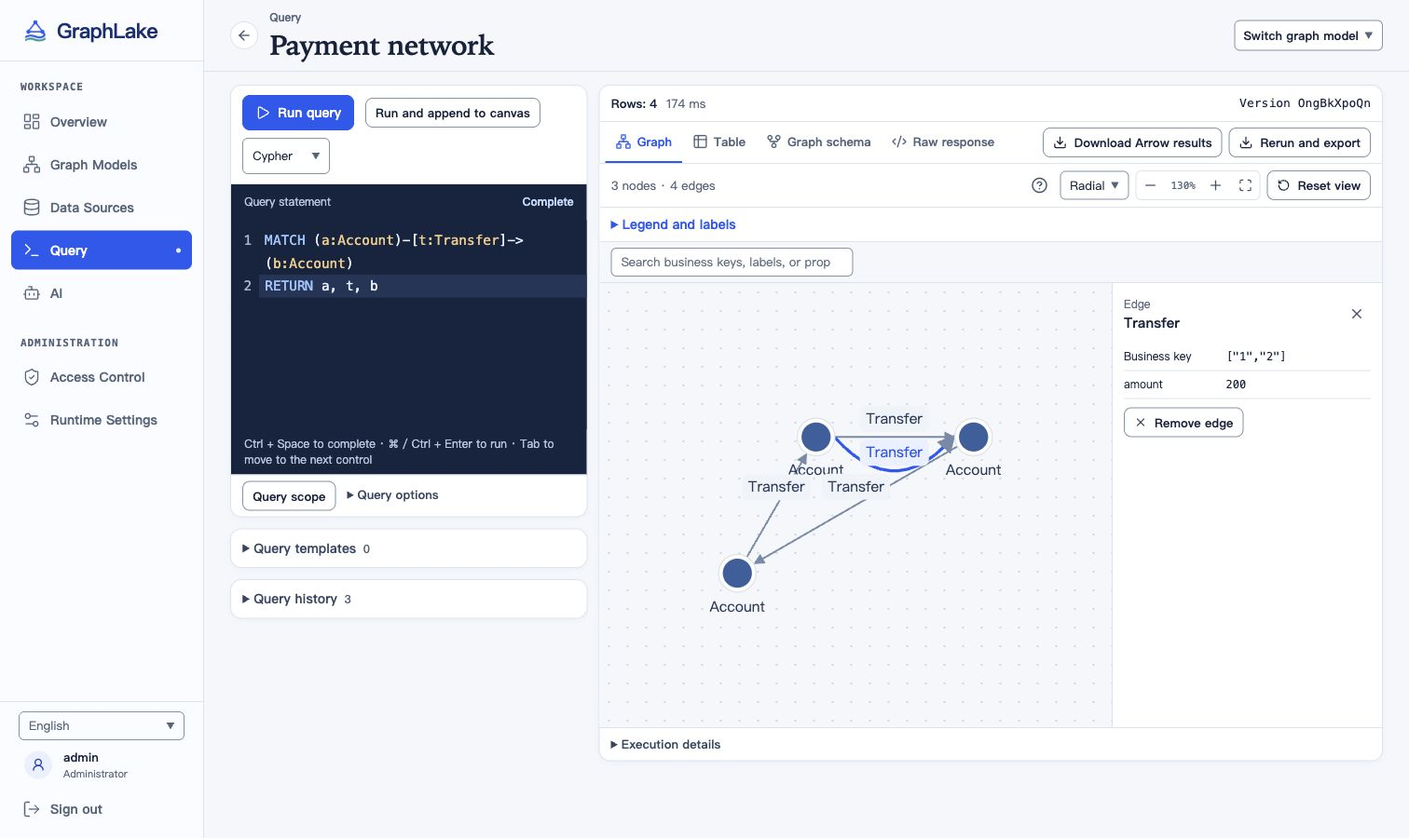
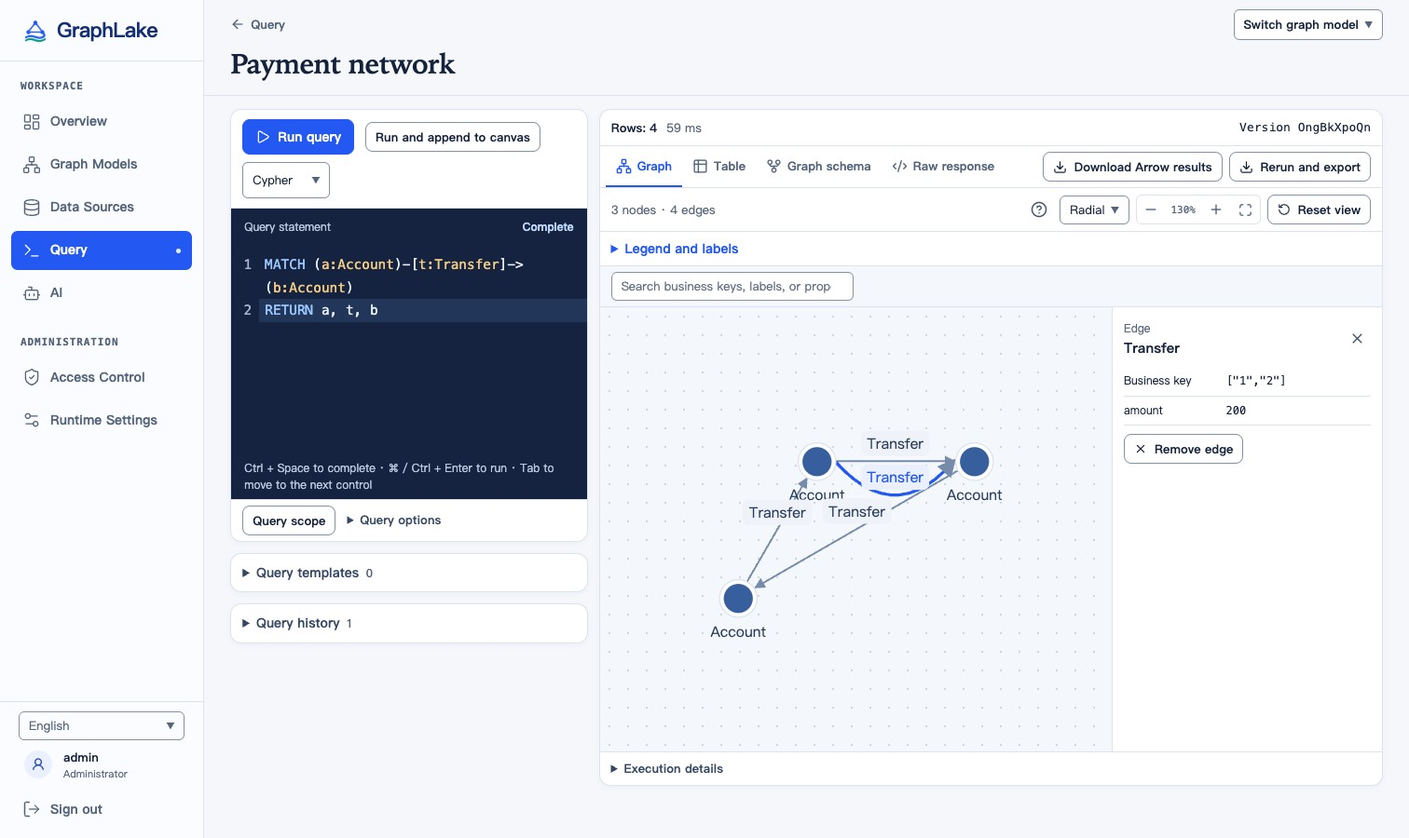
Align workspace headers, settings tabs, and narrow-screen actions

diff --git a/web/src/styles.css b/web/src/styles.css
@@ -321,6 +321,10 @@ thead th { font-weight: 700; white-space: nowrap; }
 .source-browser form.mapping-source .button { margin: 0; }
 
 .workbench { min-width: 0; min-height: 100dvh; }
+.framed-workspace { margin-inline: auto; }
+.access-workspace { max-inline-size: 82rem; }
+.ai-workspace { max-inline-size: 68rem; }
+.runtime-workspace { max-inline-size: 76rem; }
 .model-workspace { min-width: 0; }
 .model-workspace[data-inactive] { display: none; }
 @supports (content-visibility: hidden) {
@@ -334,14 +338,8 @@ thead th { font-weight: 700; white-space: nowrap; }
 .workspace-header h1 { font: 550 clamp(1.4rem, 1.1rem + .8vw, 1.88rem)/1.2 var(--display); overflow-wrap: anywhere; letter-spacing: -.02em; }
 .workspace-title, .workspace-context { display: flex; flex-wrap: wrap; align-items: center; min-width: 0; gap: 8px 12px; }
 .workspace-context { justify-content: flex-end; }
-.model-workspace-header .workspace-context { gap: 8px; }
-.workspace-title > .icon-button { border: 1px solid var(--line); }
 .model-switch { min-width: 0; max-width: 100%; }
 .model-switch select { min-width: 6rem; max-width: min(18rem, 58vw); padding-block: 6px; padding-inline-start: 9px; font-size: 13px; font-weight: 600; text-overflow: ellipsis; }
-.model-heading { min-inline-size: 0; }
-.model-heading > span { display: block; margin-block-end: 3px; color: var(--muted); font-size: .75rem; font-weight: 600; }
-.model-workspace-header .workspace-title { flex: 1 1 22rem; flex-wrap: nowrap; }
-.model-workspace-header .workspace-title > .icon-button { background: var(--surface); border-radius: 50%; }
 .version-chip { color: var(--muted); font-size: 12px; white-space: nowrap; padding: 4px 7px; background: var(--panel); border: 1px solid var(--line); border-radius: 5px; }
 .button.compact { min-height: 32px; padding: 4px 10px; font-size: 13px; }
 .listing { min-width: 0; padding: 0 var(--gutter) 26px; }
@@ -369,25 +367,26 @@ thead th { font-weight: 700; white-space: nowrap; }
 .catalog-workspace { min-width: 0; }
 .catalog-controls { display: flex; flex-wrap: wrap; align-items: center; gap: 8px; padding: 14px var(--gutter) 0; }
 .catalog-controls .workspace-tools { margin-inline-start: auto; }
-.catalog-header {
+.model-workspace-header {
   display: grid; grid-template-columns: minmax(0, 1fr); gap: 8px;
-  padding-block: 10px 16px; container: catalog-header / inline-size;
+  padding-block: 10px 16px; container: model-header / inline-size;
 }
-.catalog-header-nav, .catalog-heading-row {
+.model-header-nav, .model-heading-row {
   display: flex; align-items: center; justify-content: space-between; gap: 8px 16px;
 }
-.catalog-back {
+.model-back {
   display: inline-flex; align-items: center; gap: 6px; min-block-size: 32px; padding: 0;
   border: 0; background: transparent; color: var(--muted); font-size: .8125rem; font-weight: 600;
 }
-.catalog-back:hover { color: var(--accent); }
-.catalog-heading-info, .catalog-model-status { display: flex; flex-wrap: wrap; align-items: center; gap: 6px 12px; min-inline-size: 0; }
-.catalog-add { flex: none; }
-@container catalog-header (max-width: 32rem) {
-  .catalog-heading-row { display: grid; grid-template-columns: minmax(0, 1fr) auto; column-gap: 8px; }
-  .catalog-heading-info { display: contents; }
-  .catalog-heading-row h1 { grid-column: 1 / -1; }
-  .catalog-model-status .version-chip { max-inline-size: 100%; white-space: normal; overflow-wrap: anywhere; }
+.model-back:hover { color: var(--accent); }
+.model-heading-info, .model-heading-status { display: flex; flex-wrap: wrap; align-items: center; gap: 6px 12px; min-inline-size: 0; }
+.model-heading-name { display: flex; align-items: center; gap: 8px; min-inline-size: 0; max-inline-size: 100%; }
+.model-heading-name .icon-button, .catalog-add { flex: none; }
+@container model-header (max-width: 32rem) {
+  .model-heading-row { display: grid; grid-template-columns: minmax(0, 1fr) auto; column-gap: 8px; }
+  .model-heading-info { display: contents; }
+  .model-heading-name { grid-column: 1 / -1; }
+  .model-heading-status .version-chip { max-inline-size: 100%; white-space: normal; overflow-wrap: anywhere; }
   .catalog-add { grid-column: 2; padding-inline: 10px; }
 }
 .catalog-list { container: catalogs / inline-size; padding-block-start: 18px; }
@@ -757,7 +756,7 @@ button.graph-edge:hover, .graph-edge[aria-pressed="true"] { color: var(--accent)
   .explorer-toolbar { justify-content: flex-start; }
 }
 
-.access-page { inline-size: 100%; max-inline-size: 82rem; margin-inline: auto; display: grid; grid-template-columns: minmax(0, 1fr); gap: 12px; padding-block-start: 16px; }
+.access-page { display: grid; grid-template-columns: minmax(0, 1fr); gap: 12px; padding-block-start: 16px; }
 .access-table table { table-layout: fixed; }
 .access-table th, .access-table td { text-align: start; overflow-wrap: anywhere; }
 .access-table thead th { color: var(--muted); font-size: .8125rem; font-weight: 650; }
@@ -919,7 +918,7 @@ button.graph-edge:hover, .graph-edge[aria-pressed="true"] { color: var(--accent)
   .settings-tabs .label-full { display: none; }
   .settings-tabs .label-compact { display: inline; }
 }
-.settings-workspace { max-width: 76rem; margin-inline: auto; padding: 18px var(--gutter) 32px; }
+.settings-workspace { padding: 18px var(--gutter) 32px; }
 .backup-workspace { display: grid; grid-template-columns: repeat(auto-fit, minmax(min(100%, 25rem), 1fr)); gap: 16px; }
 .backup-workspace > :is(.settings-section-title, [role="status"], [role="alert"]) { grid-column: 1 / -1; }
 .backup-workspace .settings-card { align-content: start; }
@@ -927,11 +926,12 @@ button.graph-edge:hover, .graph-edge[aria-pressed="true"] { color: var(--accent)
 @media (min-width: 1150px) {
   .telemetry-workspace { grid-template-columns: minmax(19rem, .75fr) minmax(0, 1.25fr); }
 }
+.telemetry-actions { grid-column: 1 / -1; display: flex; flex-wrap: wrap; justify-content: flex-end; gap: 8px; }
 .telemetry-summary .settings-fields, .telemetry-export > .settings-fields { border: 0; padding: 0; }
 .telemetry-summary legend, .telemetry-export > .settings-fields > legend { padding: 0 0 10px; }
 .telemetry-export > .settings-fields > legend { font-size: 1rem; }
-.settings-feedback { max-width: 72rem; width: calc(100% - 2 * var(--gutter)); margin: 16px auto 0; }
-.settings-health { max-width: 90rem; display: grid; grid-template-columns: minmax(0, 2fr) minmax(17rem, 1fr); align-items: start; gap: 20px; }
+.settings-feedback { margin: 16px var(--gutter) 0; }
+.settings-health { display: grid; grid-template-columns: minmax(0, 2fr) minmax(17rem, 1fr); align-items: start; gap: 20px; }
 .recovery-console { display: grid; gap: 14px; max-width: 55rem; padding: 24px var(--gutter); margin-inline: auto; }
 .recovery-heading, .recovery-token-form, .recovery-verdict { display: flex; flex-wrap: wrap; align-items: center; gap: 8px 14px; }
 .recovery-heading .language-picker { margin-inline-start: auto; }
@@ -992,7 +992,7 @@ button.graph-edge:hover, .graph-edge[aria-pressed="true"] { color: var(--accent)
 .mcp-model-access .tag { white-space: normal; }
 .mcp-tool-list { margin-block-start: 8px; }
 
-.mcp-guide { inline-size: 100%; max-inline-size: 68rem; margin-inline: auto; padding: 18px var(--gutter) 32px; display: grid; gap: 16px; }
+.mcp-guide { padding: 18px var(--gutter) 32px; display: grid; gap: 16px; }
 .mcp-intro { display: grid; gap: 6px; padding: clamp(16px, 1.8vw, 26px); color: white; border-radius: var(--radius); background: var(--brand-cover); }
 .mcp-intro h2 { font: 500 clamp(1.55rem, 1.25rem + 1vw, 2.2rem)/1.2 var(--display); letter-spacing: -.02em; }
 .mcp-intro p { max-width: 36rem; color: #e4efff; line-height: 1.7; }

diff --git a/web/src/Editor.tsx b/web/src/Editor.tsx
@@ -1,7 +1,7 @@
 import { diagnosticText, t } from './locale.ts';
 import type { useMutations } from './Mutations';
 import { lazy, Suspense, useCallback, useEffect, useMemo, useRef, useState } from 'react';
-import { ArrowLeft, Braces, Box, Database, GitCommitHorizontal, History, List, Pencil, Plus, RefreshCw, Save, ShieldCheck, Upload, Waypoints, X } from 'lucide-react';
+import { Braces, Box, Database, GitCommitHorizontal, History, List, Pencil, Plus, RefreshCw, Save, ShieldCheck, Upload, Waypoints, X } from 'lucide-react';
 import { api, ApiError, errorText, type BusinessStatus, type Column, type ImpactReport, type ModelSummary, type SavedModel, type Validation, type ValidationSite } from './api';
 import { BusinessImpact, impactLabels, type ImpactTarget } from './BusinessImpact';
 import { BusinessTasks } from './BusinessTasks';
@@ -22,6 +22,7 @@ import { ModelYamlEditor } from './ModelYamlEditor';
 import { useModelDraft } from './useModelDraft';
 import { setupIssue } from './modelWorkflow';
 import { Modal, NameDialog, StatusLabel } from './ui';
+import { ModelWorkspaceHeader } from './ModelWorkspaceHeader';
 import { WorkspaceTools } from './WorkspaceTools';
 
 export type Workspace = 'graph' | 'catalogs' | 'query';
@@ -488,34 +489,13 @@ export default function Editor({ id, initial, active, onDirty, close, created, c
   const dirtyLabel = workspace !== 'query' && dirty && <span className="dirty"><i />{t('未保存')}</span>;
 
   return <main className={'workbench editor workspace-' + workspace}>
-    {workspace === 'catalogs' ? <header className="workspace-header catalog-header">
-      <div className="catalog-header-nav">
-        <button className="catalog-back" type="button" aria-label={title + ' · ' + t('返回模型列表')} title={t('返回模型列表')} onClick={close}>
-          <ArrowLeft size={16} aria-hidden="true" />{title}
-        </button>
-        {modelSwitcher}
-      </div>
-      <div className="catalog-heading-row">
-        <div className="catalog-heading-info">
-          <h1>{modelName}</h1>
-          {(version || dirtyLabel) && <div className="catalog-model-status">{version}{dirtyLabel}</div>}
-        </div>
-        {model && allow.configure && allow.edit && <button className="button primary catalog-add" type="button"
-          disabled={!!busy} aria-haspopup="dialog" onClick={openSource}><Plus size={16} aria-hidden="true" />{t('添加数据源')}</button>}
-      </div>
-    </header> : <header className="workspace-header model-workspace-header">
-      <div className="workspace-title">
-        <button className="icon-button" aria-label={t('返回模型列表')} title={t('返回模型列表')} onClick={close}><ArrowLeft size={17} aria-hidden="true" /></button>
-        <div className="model-heading"><span>{title}</span><h1>{modelName}</h1></div>
-      </div>
-      <div className="workspace-context">
-        {dirtyLabel}
-        {modelSwitcher}
-        {workspace === 'graph' && preview.model && allow.edit && <button className="icon-button" aria-label={t('编辑模型名称')}
-          disabled={busy || !!yamlError} onClick={() => { if (inspectCurrent().model) setModal('title'); }}><Pencil size={15} /></button>}
-        {version}
-      </div>
-    </header>}
+    <ModelWorkspaceHeader workspace={title} name={modelName} back={close} switcher={modelSwitcher}
+      rename={workspace === 'graph' && preview.model && allow.edit && <button className="icon-button" type="button"
+        aria-label={t('编辑模型名称')} title={t('编辑模型名称')} disabled={busy || !!yamlError}
+        onClick={() => { if (inspectCurrent().model) setModal('title'); }}><Pencil size={15} aria-hidden="true" /></button>}
+      status={(version || dirtyLabel) && <>{version}{dirtyLabel}</>}
+      action={workspace === 'catalogs' && model && allow.configure && allow.edit && <button className="button primary catalog-add" type="button"
+        disabled={!!busy} aria-haspopup="dialog" onClick={openSource}><Plus size={16} aria-hidden="true" />{t('添加数据源')}</button>} />
     {saved?.archive_error && <p className="notice error" role="alert">{diagnosticText(saved.archive_error)}{' '}
       <button className="button compact" onClick={() => setModal('versions')}>{t('查看版本历史')}</button>
     </p>}

diff --git a/web/src/Settings.tsx b/web/src/Settings.tsx
@@ -130,16 +130,10 @@ export default function Settings({ models, locked, onDirty, openModel, initialTa
 
   const readOnly = !snapshot?.file || locked || busy;
   const editableTab = tab === 'telemetry';
-  return <main className="workbench">
+  return <main className="workbench framed-workspace runtime-workspace">
     <header className="workspace-header">
       <div className="workspace-title"><h1>{t('运行配置')}</h1></div>
-      <div className="workspace-context">
-        {(dirty.current || mcpDirty) && <span className="dirty"><i />{t('未保存')}</span>}
-        {editableTab && snapshot && <>
-        <button className="button compact" type="button" disabled={busy} onClick={reloadConfig}>{t('重新加载配置')}</button>
-        <button className="button primary compact" type="submit" form="runtime-settings" disabled={readOnly || !dirty.current}>{busy ? t('正在保存…') : t('保存配置')}</button>
-        </>}
-      </div>
+      {(dirty.current || mcpDirty) && <span className="dirty"><i />{t('未保存')}</span>}
     </header>
     <div className="workspace-tabs settings-tabs" role="tablist" aria-label={t('运行配置分类')}>
       {tabs.map(([key, label, compactLabel], index) => <button key={key} id={tabButton(key)} type="button" role="tab"
@@ -231,6 +225,10 @@ export default function Settings({ models, locked, onDirty, openModel, initialTa
             </button>
           </fieldset>
           </details>
+        </div>
+        <div className="telemetry-actions">
+          <button className="button" type="button" disabled={busy} onClick={reloadConfig}>{t('重新加载配置')}</button>
+          <button className="button primary" type="submit" disabled={readOnly || !dirty.current}>{busy ? t('正在保存…') : t('保存配置')}</button>
         </div>
       </div></section>
     </form>}

diff --git a/web/src/App.tsx b/web/src/App.tsx
@@ -13,6 +13,7 @@ import type { Point } from './modelCanvasGeometry';
 import { documentOf, emptyModel, modelOf } from './model';
 import { Modal, NameDialog } from './ui';
 import { ConsoleNavigation } from './ConsoleNavigation';
+import { ModelWorkspaceHeader } from './ModelWorkspaceHeader';
 import { Models, type DirectoryState } from './Models';
 import type { SettingsTab } from './Settings';
 import './styles.css';
@@ -279,8 +280,7 @@ function App({ logout, locked, identity }: { logout?: () => Promise<void>; locke
               changed={reloadModels} created={key => navigate(modelPath(key), true)} />
             </Suspense>
           : <main className="workbench workspace-query">
-              <header className="workspace-header"><div className="workspace-title"><h1>{summary!.name}</h1></div>
-                <button className="button compact" onClick={() => navigate('/query')}>{t('查询模型列表')}</button></header>
+              <ModelWorkspaceHeader workspace={t('查询')} name={summary!.name} back={() => navigate('/query')} />
               <Query id={model} actor={actor} revision={summary!.active_revision!} draftPending={false}
                 refresh={reloadModels} visible={show} canExport={canExport(model)} />
             </main>}

diff --git a/web/src/ModelWorkspaceHeader.tsx b/web/src/ModelWorkspaceHeader.tsx
@@ -1,0 +1,29 @@
+import type { ReactNode } from 'react';
+import { ArrowLeft } from 'lucide-react';
+import { t } from './locale.ts';
+
+export function ModelWorkspaceHeader({ workspace, name, back, switcher, rename, status, action }: {
+  workspace: string;
+  name: string;
+  back: () => void;
+  switcher?: ReactNode;
+  rename?: ReactNode;
+  status?: ReactNode;
+  action?: ReactNode;
+}) {
+  return <header className="workspace-header model-workspace-header">
+    <div className="model-header-nav">
+      <button className="model-back" type="button" aria-label={workspace + ' · ' + t('返回模型列表')} title={t('返回模型列表')} onClick={back}>
+        <ArrowLeft size={16} aria-hidden="true" />{workspace}
+      </button>
+      {switcher}
+    </div>
+    <div className="model-heading-row">
+      <div className="model-heading-info">
+        <div className="model-heading-name"><h1>{name}</h1>{rename}</div>
+        {status && <div className="model-heading-status">{status}</div>}
+      </div>
+      {action}
+    </div>
+  </header>;
+}

diff --git a/web/src/localTables.css b/web/src/localTables.css
@@ -161,11 +161,9 @@
   .sync-source-line > span:first-child { inline-size: 100%; }
   .sync-source-line code { flex: 1; }
   .local-table-facts { margin-inline: 14px; }
-  .local-table-actions { padding: 10px 14px; flex-wrap: wrap; gap: 0; }
-  .local-table-actions > div { inline-size: 100%; display: grid; grid-template-columns: repeat(3, 1fr); gap: 0; }
-  .local-table-actions .button { min-block-size: 42px; padding-inline: 6px; justify-content: center; }
-  .sync-more { margin-inline-start: auto; }
-  .sync-more summary { min-block-size: 40px; }
+  .local-table-actions { display: grid; grid-template-columns: repeat(2, minmax(0, 1fr)); align-items: stretch; padding: 10px 14px; gap: 4px 8px; }
+  .local-table-actions > div { display: contents; }
+  .local-table-actions .button, .sync-more summary { min-block-size: 44px; padding-inline: 6px; justify-content: center; white-space: normal; }
   .sync-run-error { margin-inline: 14px; }
   .sync-retained { padding-inline: 14px; }
 }

diff --git a/web/src/navigation.css b/web/src/navigation.css
@@ -82,8 +82,11 @@
     width: 18px; height: 2px; inset: auto auto 1px calc(50% - 9px); border-radius: 2px;
   }
 
-  .app-rail[data-collapsed] .rail-nav { grid-row: 1; grid-column: 2; padding-inline-end: var(--gutter); }
-  .rail-nav > .rail-menu-trigger { gap: 7px; max-inline-size: min(54vw, 14rem); min-block-size: 44px; }
+  .app-rail[data-collapsed] { grid-template-columns: auto minmax(0, 1fr); column-gap: 8px; padding-inline: var(--gutter); }
+  .app-rail[data-collapsed] .rail-brand { padding-inline: 0; }
+  .app-rail[data-collapsed] .rail-brand span { font-size: clamp(1.1rem, 5.5vw, 1.38rem); }
+  .app-rail[data-collapsed] .rail-nav { grid-row: 1; grid-column: 2; justify-self: end; max-inline-size: 100%; }
+  .rail-nav > .rail-menu-trigger { gap: 7px; max-inline-size: 100%; min-block-size: 44px; }
   .rail-menu-trigger > svg { flex: none; }
   .rail-menu-trigger > span { min-inline-size: 0; overflow: hidden; text-overflow: ellipsis; }
   .rail-menu[popover]:popover-open {

diff --git a/web/src/AI.tsx b/web/src/AI.tsx
@@ -41,7 +41,7 @@ export default function AI({ locked, authEnabled, openServiceSettings }: {
     catch { setCopyError(t('无法访问剪贴板，请选中示例文字手动复制。')); }
   }
 
-  return <main className="workbench">
+  return <main className="workbench framed-workspace ai-workspace">
     <header className="workspace-header"><div className="workspace-title"><h1>AI</h1><span className="settings-hint">{t('Agent 接入指南')}</span></div>
       {access && <div className="workspace-context"><span>{t('当前用户 · {0}', access.owner)}</span></div>}
     </header>

diff --git a/web/src/Overview.tsx b/web/src/Overview.tsx
@@ -162,7 +162,7 @@ export default function Overview({ active, openModel, openSettings }: Props) {
     if (job?.state === 'unavailable') issues.push(['backups', t('{0}状态不可读', name)]);
     else if (job?.state === 'recorded' && !job.result.ok) issues.push(['backups', t('{0}失败', name)]);
   }
-  return <main className="workbench overview">
+  return <main className="workbench framed-workspace overview">
     <header className="workspace-header">
       <div className="workspace-title"><h1>{t('平台概览')}</h1></div>
       <div className="workspace-context">

diff --git a/web/src/Access.tsx b/web/src/Access.tsx
@@ -51,7 +51,7 @@ export function Access({ models, locked }: { models: ModelSummary[]; locked: boo
     setGroupEdit(undefined);
     setAttempt(value => value + 1);
   }
-  return <main className="workbench">
+  return <main className="workbench framed-workspace access-workspace">
     <header className="workspace-header">
       <div className="workspace-title"><h1>{t('权限管理')}</h1></div>
       <div className="workspace-context">

diff --git a/web/src/overview.css b/web/src/overview.css
@@ -1,9 +1,8 @@
+.overview { max-inline-size: 92rem; }
 .overview-body {
   display: grid;
   gap: 16px;
-  max-inline-size: 92rem;
   padding: 16px var(--gutter) 32px;
-  margin-inline: auto;
 }
 .overview-updated, .overview-service-details, .overview-service-title, .overview-section-heading h2, .overview-panel > h2 {
   display: flex;

diff --git a/docs/reference.zh-CN.md b/docs/reference.zh-CN.md
@@ -61,7 +61,7 @@ cargo run --locked --features admin --bin graphlake-admin -- \
 
 侧边栏独立的「AI」页面默认展示 Agent 接入指南，用户可生成、轮换或撤销个人 AI 令牌，查看自身可用模型并测试连接。AI 继承令牌所属用户当前的查询、建模、发布权限及租户范围，审计记录归属实际用户。查询与建模各有一个 MCP 地址（`/mcp/query` 和 `/mcp/modeling`），管理员在「运行配置 → MCP 服务」中独立启停。详见 [MCP 接入与能力边界](mcp.md)。
 
-后台和 Worker 提供 Prometheus 指标。 模型观察与对账年龄、CSR 新鲜度、磁盘空间和托管快照清理可通过部署侧规则监控。 [监控与告警](../deploy/monitoring.md#本地表csr-与磁盘预算)「运行配置」包括日志与遥测、健康检查、备份与恢复及 MCP 服务。管理员可编辑日志和 OpenTelemetry 配置、检查发布模型的数据源、查看最近备份状态和配置 MCP 服务。从「备份与恢复 → 恢复备份」进入目标站 HTTPS 恢复页，可选择并检查已同步的恢复点，确认恢复后查看各阶段进度、执行验收并核对切流状态。[恢复操作](../deploy/cluster.md#绑定恢复点并开放入口) · [OpenTelemetry 配置](../deploy/README.md#opentelemetry-上报)
+后台和 Worker 提供 Prometheus 指标。 模型观察与对账年龄、CSR 新鲜度、磁盘空间和托管快照清理可通过部署侧规则监控。 [监控与告警](../deploy/monitoring.md#本地表csr-与磁盘预算)「运行配置」包括日志与遥测、健康检查、备份与恢复及 MCP 服务。管理员可编辑日志和 OpenTelemetry 配置、检查发布模型的数据源、查看最近备份状态和配置 MCP 服务。日志与遥测的重新加载、保存操作位于表单底部。从「备份与恢复 → 恢复备份」进入目标站 HTTPS 恢复页，可选择并检查已同步的恢复点，确认恢复后查看各阶段进度、执行验收并核对切流状态。[恢复操作](../deploy/cluster.md#绑定恢复点并开放入口) · [OpenTelemetry 配置](../deploy/README.md#opentelemetry-上报)
 
 启用 Coordinator 故障接管并配置私有目录后，管理员可在「备份与恢复」选择「立即备份」，在服务器保存校验过的控制状态和本地表文件。未纳入本地副本的 PostgreSQL 与 Parquet 源数据按恢复清单另行备份。[配置手动备份](../deploy/cluster.md#在线控制状态备份与恢复)
 
@@ -73,7 +73,7 @@ cargo run --locked --features admin --bin graphlake-admin -- \
 
 服务提供 `/healthz`、`/readyz` 和 Prometheus `/metrics`。用 `--driver-model <已发布模型>` 可为现有 TinkerPop 客户端开启只读 Gremlin WebSocket；另加 `--bolt-port 7687` 可为 Neo4j 驱动开启只读 Bolt。HTTP、Bolt 和 Gremlin 共用模型授权，独立服务账号通过 `.graphlake-auth/service-accounts.json` 配置，操作审计写入同目录。驱动与 HTTP 查询共享 `--query-slots`（默认 1），过载时进入有界队列。Bolt 支持托管只读事务，两种驱动均提供原生图对象和分批结果。单机结果快照每个身份最多保留 4 个，服务合计最多 32 个、1 GiB。Arrow 下载从开始发送起最多占用传输槽 60 秒。连接示例、协议范围、Linux 打包、systemd 单元和升级恢复步骤见 [单机部署手册](../deploy/README.md)。
 
-桌面从左侧、窄屏从顶部导航菜单切换图模型、数据源和查询。返回模型列表会回到当前工作区的目录。工作区标题显示当前模型名称，点击「切换图模型」可以打开同一工作区的其他模型。模型列表在较窄容器中按条目排布，已配置的数据源按行展示，窄屏会把操作移到名称下方。手机可在搜索框旁选择模型状态。图模型列表支持搜索、新建和从 YAML 文件导入草稿。可在编辑器下载当前草稿，也可打开版本历史并排查看归档 YAML 和草稿、下载归档 YAML。导入文件里的相对路径以后台的模型目录解析。打开模型后可在画布选择节点或边。配置面板在桌面位于画布右侧，在窄屏位于画布下方。画布上方保留添加、保存、发布及带数量的节点和边入口。可直接从画布连接端点建边，手动校验和版本历史位于「更多工具」。数据源工作区以卡片展示当前模型已配置的数据源；点击卡片的「配置」打开独立弹窗，可就地保存草稿并查看保存结果；关闭弹窗会保留未保存的编辑，点击「浏览表与字段」读取来源结构，选表后可将来源带入映射。已配置的数据源支持按名称或连接器类型搜索。点击模型页头右侧的「添加数据源」打开选择面板，可组合连接器类别和关键词筛选。选择连接器卡片后填写连接参数或文件表映射，再「添加到草稿」。返回连接器列表时会保留当前筛选，再次选择同一连接器可继续填写。新建连接的必填项会在提交时校验并聚焦缺失字段；文件路径和列名等已有输入也参与必填校验。取消新建不会修改模型。随后保存草稿、预览并确认发布，配置才会进入生效版本。PostgreSQL、MySQL、ClickHouse、Trino 及其连接器和 Iceberg 支持逐级浏览，Parquet、CSV、JSON Lines 和 Delta 浏览已配置的表，SQLite、Spanner 可列出数据库内的表。Snowflake、BigQuery 和 SAP HANA 可按已映射或手工输入的限定模式列出表。也可输入完整表名直接读取字段。节点和边可配置多个来源表、逻辑字段到物理列的映射、类型转换、行过滤、优先顺序与重复键策略。当前连接器均可从数据源页配置，凭据填写服务进程的环境变量名。可配置 Delta 表版本、Iceberg 表快照及连接器的高级字段。重命名数据源会更新单表和多表引用，删除前需解除引用。节点和边可在「时态与分区」设置 SCD2 和局部跳过逻辑分区。
+桌面从左侧、窄屏从顶部导航菜单切换图模型、数据源和查询。返回模型列表会回到当前工作区的目录。在模型名称上方可返回目录或切换模型。在图模型页，有编辑权限时可点击名称旁的铅笔重命名草稿。模型列表在较窄容器中按条目排布，已配置的数据源按行展示，窄屏会把操作移到名称下方。手机可在搜索框旁选择模型状态。图模型列表支持搜索、新建和从 YAML 文件导入草稿。可在编辑器下载当前草稿，也可打开版本历史并排查看归档 YAML 和草稿、下载归档 YAML。导入文件里的相对路径以后台的模型目录解析。打开模型后可在画布选择节点或边。配置面板在桌面位于画布右侧，在窄屏位于画布下方。画布上方保留添加、保存、发布及带数量的节点和边入口。可直接从画布连接端点建边，手动校验和版本历史位于「更多工具」。数据源工作区以卡片展示当前模型已配置的数据源；点击卡片的「配置」打开独立弹窗，可就地保存草稿并查看保存结果；关闭弹窗会保留未保存的编辑，点击「浏览表与字段」读取来源结构，选表后可将来源带入映射。已配置的数据源支持按名称或连接器类型搜索。点击模型页头右侧的「添加数据源」打开选择面板，可组合连接器类别和关键词筛选。选择连接器卡片后填写连接参数或文件表映射，再「添加到草稿」。返回连接器列表时会保留当前筛选，再次选择同一连接器可继续填写。新建连接的必填项会在提交时校验并聚焦缺失字段；文件路径和列名等已有输入也参与必填校验。取消新建不会修改模型。随后保存草稿、预览并确认发布，配置才会进入生效版本。PostgreSQL、MySQL、ClickHouse、Trino 及其连接器和 Iceberg 支持逐级浏览，Parquet、CSV、JSON Lines 和 Delta 浏览已配置的表，SQLite、Spanner 可列出数据库内的表。Snowflake、BigQuery 和 SAP HANA 可按已映射或手工输入的限定模式列出表。也可输入完整表名直接读取字段。节点和边可配置多个来源表、逻辑字段到物理列的映射、类型转换、行过滤、优先顺序与重复键策略。当前连接器均可从数据源页配置，凭据填写服务进程的环境变量名。可配置 Delta 表版本、Iceberg 表快照及连接器的高级字段。重命名数据源会更新单表和多表引用，删除前需解除引用。节点和边可在「时态与分区」设置 SCD2 和局部跳过逻辑分区。
 
 数据源列表和添加连接器的卡片都显示连接器标识。已配置的对象存储和存储服务选择器会显示当前供应商的标识。
 
